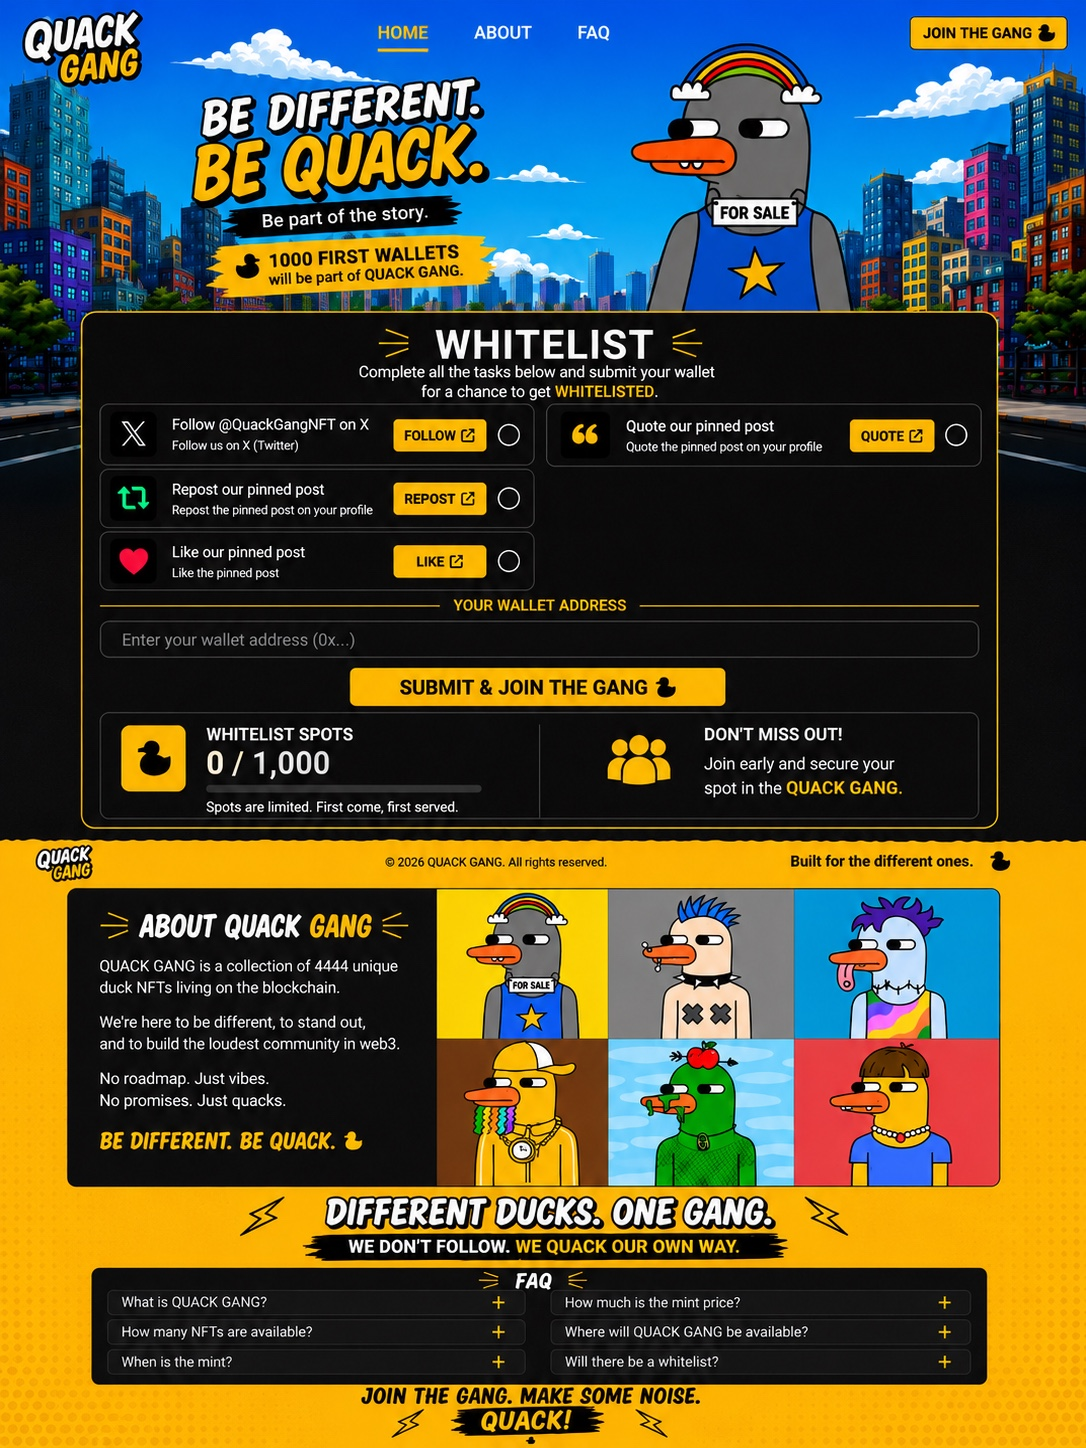
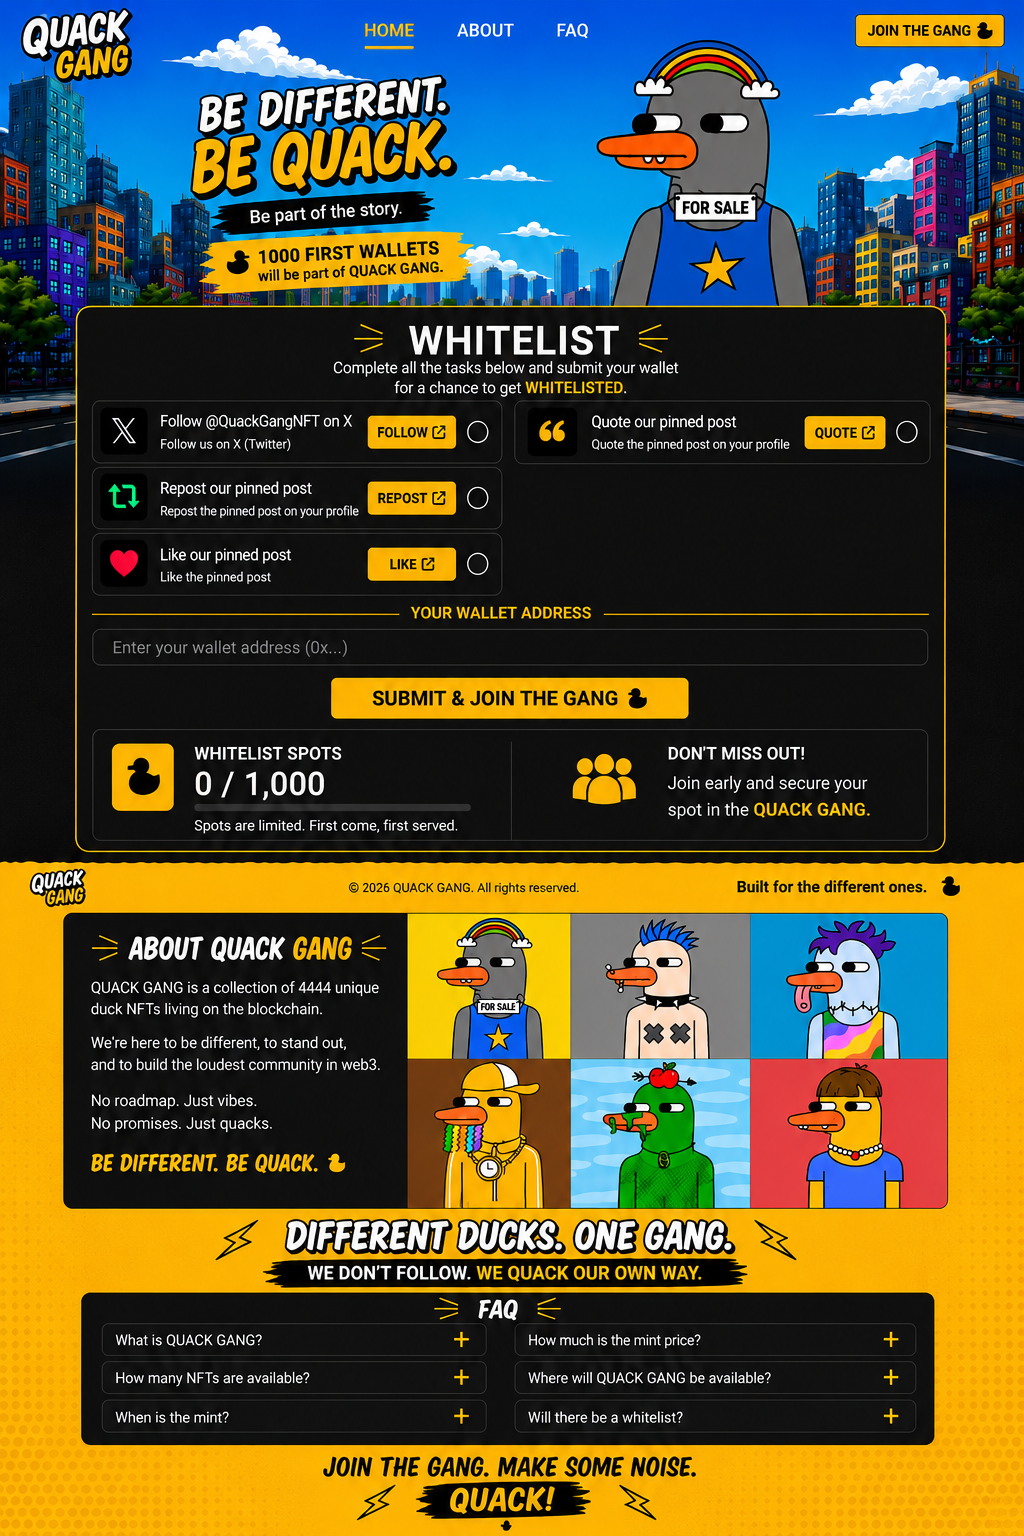
Add files via upload

diff --git a/public/style.css b/public/style.css
@@ -18,10 +18,7 @@ body{font-family:Arial,Helvetica,sans-serif}
 .wallet{position:absolute;left:10.5%;top:38.3%;width:79%;height:2.45%;padding:0 1.3cqw;border:1px solid #444;border-radius:8px;background:#171717;color:#fff;font-size:1.35cqw;outline:none}
 .check{position:absolute;width:1.55cqw;height:1.55cqw;min-width:9px;min-height:9px;border:1.5px solid #fff;border-radius:50%;display:grid;place-items:center;color:#fff;font-size:.85cqw;font-weight:900;line-height:1;background:rgba(0,0,0,.6);opacity:0;pointer-events:none;z-index:5}
 .check.visible{opacity:1}
-.follow-check{left:46.15%;top:27.0%}
-.repost-check{left:46.15%;top:31.0%}
-.like-check{left:46.15%;top:34.85%}
-.quote-check{left:88.0%;top:26.9%}
+
 .submit{position:absolute;left:31.8%;top:43.0%;width:36.4%;height:3.8%;border:0;background:transparent;cursor:pointer;touch-action:manipulation}
 #message{position:absolute;left:20%;top:47%;width:60%;text-align:center;font-size:1.15cqw;font-weight:900;color:#20d84b;z-index:6}
 .anchor{position:absolute;left:0;top:50%;width:1px;height:1px}
@@ -34,192 +31,87 @@ body{font-family:Arial,Helvetica,sans-serif}
 }
 
 
-
-/* FINAL: use the wallet field already drawn into design.png */
-.wallet{
-  position:absolute;
-  left:10.0%;
-  top:41.05%;
-  width:80.0%;
-  height:2.55%;
-  padding:0 1.3cqw;
-  border:1px solid #444;
-  border-radius:8px;
-  background:rgba(23,23,23,.15);
-  color:#fff;
-  font-size:1.35cqw;
-  outline:none;
-}
-.wallet::placeholder{color:rgba(153,153,153,0);}
-
+/* Quote task: same dimensions and typography as Follow/Repost/Like */
 .task.quote{
   position:absolute;
-  left:77.0%;
-  top:26.8%;
-  width:10.2%;
-  height:4.8%;
+  left:53%;
+  top:51.5%;
+  width:42%;
+  height:5.2%;
   display:block;
   background:transparent;
   cursor:pointer;
-  touch-action:manipulation;
+}
+@media(max-width:700px){
+  .task.quote{
+    left:53%;
+    top:51.5%;
+    width:42%;
+    height:5.2%;
+  }
 }
 
-/* Checkmarks sit INSIDE the artwork circles; no extra circle is drawn. */
+/* Precision: completion checks centered on the circles already drawn in design.png */
 .check{
-  position:absolute;
-  width:2.0%;
-  height:2.0%;
+  width:2.15%;
+  height:2.15%;
   min-width:0;
   min-height:0;
-  border:0;
-  border-radius:0;
-  display:grid;
-  place-items:center;
-  color:#fff;
-  font-size:1.45%;
-  font-family:Arial,Helvetica,sans-serif;
-  font-weight:900;
+  border:1.5px solid #fff;
+  font-size:1.15%;
   line-height:1;
-  background:transparent;
-  opacity:0;
-  pointer-events:none;
-  z-index:5;
-  transform:translate(-50%,-50%);
 }
-.check.visible{opacity:1}
-
-/* Centers of the existing white circles in design.png */
-.follow-check{left:47.07%;top:28.97%}
-.repost-check{left:47.07%;top:33.00%}
-.like-check{left:47.07%;top:37.05%}
-.quote-check{left:87.79%;top:28.97%}
+.follow-check{left:45.9%;top:28.2%}
+.repost-check{left:45.9%;top:32.35%}
+.like-check{left:45.9%;top:36.5%}
+.quote-check{left:86.8%;top:28.2%}
 
 @media(max-width:700px){
-  .wallet{
-    top:41.05%;
-    font-size:2.1cqw;
-  }
-  .task.quote{
-    left:77.0%;
-    top:26.8%;
-    width:10.2%;
-    height:4.8%;
-  }
   .check{
-    width:2.0%;
-    height:2.0%;
-    font-size:1.45%;
+    width:2.15%;
+    height:2.15%;
+    border-width:1px;
+    font-size:1.15%;
   }
-  .follow-check{left:47.07%;top:28.97%}
-  .repost-check{left:47.07%;top:33.00%}
-  .like-check{left:47.07%;top:37.05%}
-  .quote-check{left:87.79%;top:28.97%}
+  .follow-check{left:45.9%;top:28.2%}
+  .repost-check{left:45.9%;top:32.35%}
+  .like-check{left:45.9%;top:36.5%}
+  .quote-check{left:86.8%;top:28.2%}
 }
 
-/* LIVE COUNTER ONLY — existing layout/task positions are unchanged */
+/* LIVE COUNTER — only the number is overlaid; original artwork remains unchanged */
 .counter{
   position:absolute;
-  left:19.4%;
-  top:49.15%;
-  width:20%;
-  height:3.0%;
+  left:19.25%;
+  top:49.00%;
+  width:13.5%;
+  height:2.65%;
   display:flex;
   align-items:center;
-  justify-content:flex-start;
-  white-space:nowrap;
-  background:#171717;
-  color:#fff;
-  font-size:2.8cqw;
-  font-weight:900;
-  line-height:1;
-  z-index:7;
-  pointer-events:none;
-}
-.counter-number{color:#ffc400;}
-.counter-total{color:#fff;}
-@media(max-width:700px){
-  .counter{font-size:2.8cqw;}
-}
-
-/* LIVE PROGRESS BAR ONLY — does not change existing layout */
-.counter-bar{
-  position:absolute;
-  left:5.4%;
-  top:51.75%;
-  width:35.6%;
-  height:0.65%;
-  min-height:4px;
-  background:#333;
-  border-radius:999px;
-  overflow:hidden;
-  z-index:7;
-  pointer-events:none;
-}
-.counter-bar-fill{
-  width:0%;
-  height:100%;
-  background:#ffc400;
-  border-radius:999px;
-  transition:width .25s ease;
-}
-@media(max-width:700px){
-  .counter-bar{min-height:3px;}
-}
-
-/* FINAL COUNTER ONLY — exact position over the original artwork */
-.counter{
-  position:absolute;
-  left:19.35%;
-  top:48.15%;
-  width:18.0%;
-  height:2.7%;
-  display:flex;
-  align-items:center;
-  white-space:nowrap;
-  background:#171717;
-  color:#fff;
-  font-size:2.65cqw;
+  background:#101010;
+  color:#ffc400;
+  font-size:3.15cqw;
   font-weight:900;
   line-height:1;
   z-index:7;
   pointer-events:none;
 }
 .counter-number{color:#ffc400}
-.counter-total{color:#fff}
 .counter-bar-fill{
   position:absolute;
-  left:11.6%;
-  top:52.80%;
-  width:0%;
-  height:.65%;
+  left:7.1%;
+  top:53.65%;
+  width:61.7%;
+  height:.72%;
   min-height:4px;
   background:#ffc400;
   border-radius:999px;
   z-index:8;
   pointer-events:none;
+  transform-origin:left center;
+  transform:scaleX(0);
 }
 @media(max-width:700px){
-  .counter{font-size:2.65cqw}
+  .counter{font-size:3.15cqw}
   .counter-bar-fill{min-height:3px}
-}
-
-/* USER FINAL DESIGN: counter text/bar are baked into design.png.
-   Live value is still fetched by app.js; visual artwork stays unchanged. */
-.counter{
-  position:absolute;
-  left:18.8%;
-  top:49.7%;
-  width:20%;
-  height:2.8%;
-  opacity:0;
-  pointer-events:none;
-}
-.counter-bar-fill{
-  position:absolute;
-  left:11.6%;
-  top:52.8%;
-  width:0%;
-  height:.65%;
-  opacity:0;
-  pointer-events:none;
 }

diff --git a/public/app.js b/public/app.js
@@ -1,54 +1,73 @@
-
-const counter=document.getElementById("counter");
-async function updateCounter(){
-  if(!counter) return;
-  try{
-    const r=await fetch("/api/count",{cache:"no-store"});
-    const d=await r.json();
-    const n=Math.max(0,Math.min(1000,Number(d.count)||0));
-    counter.querySelector(".counter-number").textContent=n.toLocaleString();
-    const bar=document.getElementById("counter-bar");
-    if(bar) bar.style.width=`${n/10}%`;
-  }catch(e){
-    counter.querySelector(".counter-number").textContent="0";
-    const bar=document.getElementById("counter-bar");
-    if(bar) bar.style.width="0%";
-  }
-}
-updateCounter();
-
 const tasks=["follow","repost","like","quote"];
 const done=new Set();
 const message=document.getElementById("message");
 const wallet=document.getElementById("wallet");
 const submit=document.getElementById("submit");
+const counter=document.getElementById("counter");
+const counterBar=document.getElementById("counter-bar");
 
-function showCheck(name){done.add(name);document.querySelector(`.${name}-check`)?.classList.add("visible")}
-
+function showCheck(name){
+  done.add(name);
+  document.querySelector(`.${name}-check`)?.classList.add("visible");
+}
 
 const quoteText="4444 QUACK GANG IS COMING TO ROBINHOOD CHAIN\n#ROBINHOOD #QUACKGANG #NFT";
 const pinnedPost="https://x.com/QuackGangRH/status/2095050569119674381?s=20";
-const quoteTask=document.querySelector('[data-task="quote"]');
+document.querySelector('[data-task="quote"]')?.addEventListener("click",e=>{
+  e.currentTarget.href=`https://x.com/intent/tweet?text=${encodeURIComponent(quoteText)}&url=${encodeURIComponent(pinnedPost)}`;
+  showCheck("quote");
+});
 
-if(quoteTask){
-  quoteTask.href=`https://x.com/intent/tweet?text=${encodeURIComponent(quoteText)}&url=${encodeURIComponent(pinnedPost)}`;
-  quoteTask.target="_blank";
-  quoteTask.rel="noopener";
+tasks.filter(x=>x!=="quote").forEach(name=>{
+  document.querySelector(`[data-task="${name}"]`)?.addEventListener("click",()=>showCheck(name));
+});
+
+async function updateCounter(){
+  try{
+    const r=await fetch("/api/count",{cache:"no-store"});
+    const d=await r.json();
+    const n=Math.max(0,Math.min(1000,Number(d.count)||0));
+    counter.querySelector(".counter-number").textContent=n.toLocaleString();
+    counterBar.style.transform=`scaleX(${n/1000})`;
+  }catch(e){
+    counter.querySelector(".counter-number").textContent="0";
+    counterBar.style.transform="scaleX(0)";
+  }
 }
+updateCounter();
 
-tasks.forEach(name=>document.querySelector(`[data-task="${name}"]`)?.addEventListener("click",()=>showCheck(name)));
 function validWallet(v){return /^0x[a-fA-F0-9]{20,120}$/.test(v)}
+
 submit.addEventListener("click",async()=>{
-  message.textContent="";message.style.color="#20d84b";
-  if(tasks.some(x=>!done.has(x))){message.style.color="#ff5555";message.textContent="Please complete all tasks first.";return}
+  message.textContent="";
+  message.style.color="#20d84b";
+  if(tasks.some(x=>!done.has(x))){
+    message.style.color="#ff5555";
+    message.textContent="Please complete all tasks first.";
+    return;
+  }
   const w=wallet.value.trim();
-  if(!validWallet(w)){message.style.color="#ff5555";message.textContent="Please enter a valid wallet address.";return}
+  if(!validWallet(w)){
+    message.style.color="#ff5555";
+    message.textContent="Please enter a valid wallet address.";
+    return;
+  }
   submit.disabled=true;
   try{
-    const r=await fetch("/api/submit",{method:"POST",headers:{"Content-Type":"application/json"},body:JSON.stringify({wallet:w})});
+    const r=await fetch("/api/submit",{
+      method:"POST",
+      headers:{"Content-Type":"application/json"},
+      body:JSON.stringify({wallet:w})
+    });
     const d=await r.json();
     if(!r.ok)throw new Error(d.error||"Submission failed.");
-    message.textContent="WHITELIST SUBMITTED ✓";wallet.value="";updateCounter();updateCounter();
-  }catch(e){message.style.color="#ff5555";message.textContent=e.message||"Unable to submit right now"}
-  finally{submit.disabled=false}
+    message.textContent="WHITELIST SUBMITTED ✓";
+    wallet.value="";
+    await updateCounter();
+  }catch(e){
+    message.style.color="#ff5555";
+    message.textContent=e.message||"Unable to submit right now";
+  }finally{
+    submit.disabled=false;
+  }
 });

diff --git a/public/index.html b/public/index.html
@@ -27,8 +27,7 @@
 
     <input id="wallet" class="wallet" type="text" placeholder="Enter your wallet address (0x...)" autocomplete="off" aria-label="Wallet address">
     <button id="submit" class="submit" type="button" aria-label="Submit and join the gang"></button>
-<div class="counter-bar" aria-hidden="true"></div>
-    <div id="counter" class="counter" aria-live="polite"><span class="counter-number">0</span><span class="counter-total"> / 1,000</span></div>
+    <div id="counter" class="counter" aria-live="polite"><span class="counter-number">0</span></div>
 <div id="counter-bar" class="counter-bar-fill" aria-hidden="true"></div>
 <div id="message" role="status" aria-live="polite"></div>
     <span id="whitelist" class="anchor"></span>
